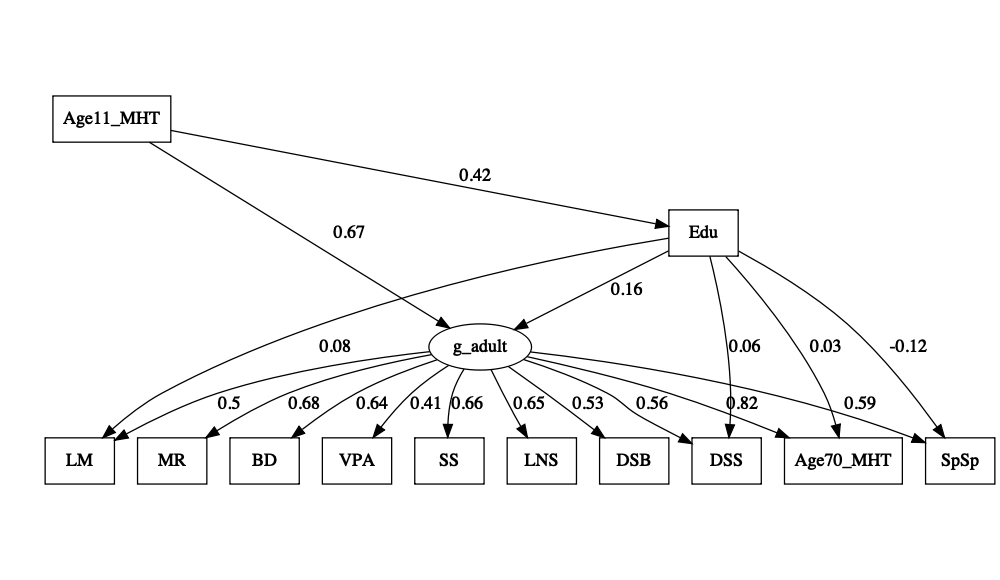
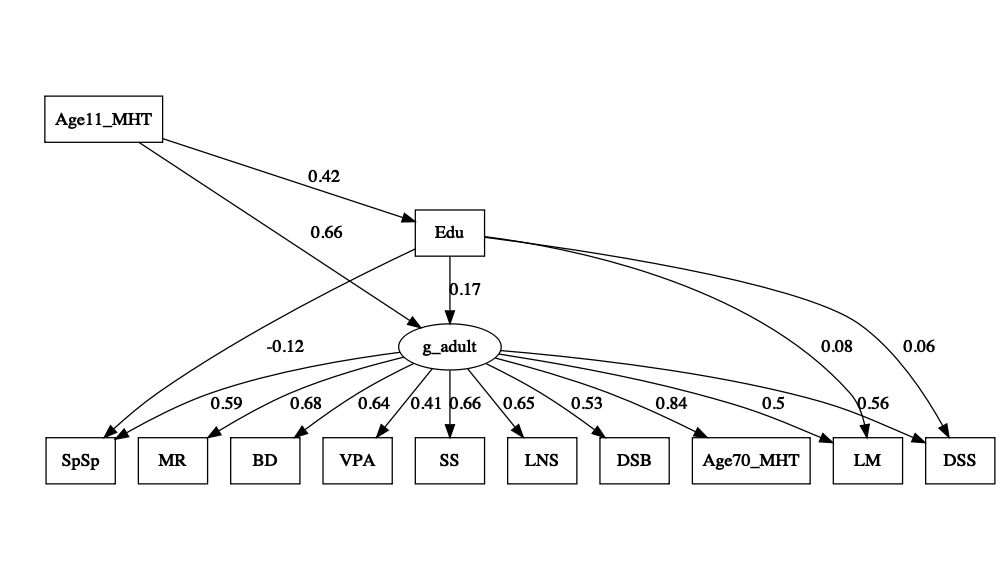
Add files via upload

diff --git a/iq/ritchie_reanal/ritchie_reanalysis.md b/iq/ritchie_reanal/ritchie_reanalysis.md
@@ -1,6 +1,6 @@
 Re-analysis of Ritchie, Bates, Deary et al.
 ================
-2024-07-15
+2024-07-16
 
 ## Load in the data
 
@@ -204,11 +204,11 @@ LM ~~ VPA
 DSS ~~ SS
 DSB ~~ LNS'
 
-EduGandS_new.fit <- cfa(new_model, sample.cov = cor_mat , sample.nobs = ntotal , std.lv = T)
+EduGandS_new.fit <- cfa(EduGandS_new.model, sample.cov = cor_mat , sample.nobs = ntotal , std.lv = T)
 cat ("dAIC Only S vs. G and S (updated)" , fitMeasures(EduOnlyS.fit,"aic") - fitMeasures(EduGandS_new.fit,"aic") , '\n' )
 ```
 
-    ## dAIC Only S vs. G and S (updated) 3.484087
+    ## dAIC Only S vs. G and S (updated) 4.084667
 
 The updated model fits better than the model only on S. Let’s visualize
 it:
@@ -222,45 +222,44 @@ There’s a significant positive path from Edu to g, and a negative path
 from Edu to SpSp. Let’s look at the stanardized coefficients:
 
 ``` r
-standardizedSolution(EduGandS.fit)
+standardizedSolution(EduGandS_new.fit)
 ```
 
     ##          lhs op       rhs est.std    se      z pvalue ci.lower ci.upper
-    ## 1    g_adult =~ Age70_MHT   0.825 0.019 44.304  0.000    0.788    0.861
-    ## 2    g_adult =~        LM   0.497 0.028 17.594  0.000    0.441    0.552
-    ## 3    g_adult =~       DSS   0.557 0.026 21.243  0.000    0.506    0.609
-    ## 4    g_adult =~        MR   0.679 0.019 36.216  0.000    0.642    0.715
-    ## 5    g_adult =~        BD   0.640 0.020 31.479  0.000    0.600    0.679
-    ## 6    g_adult =~       VPA   0.415 0.028 15.066  0.000    0.361    0.469
-    ## 7    g_adult =~        SS   0.661 0.019 34.178  0.000    0.623    0.699
-    ## 8    g_adult =~       LNS   0.649 0.020 32.717  0.000    0.610    0.687
-    ## 9    g_adult =~       DSB   0.530 0.024 21.902  0.000    0.482    0.577
-    ## 10   g_adult =~      SpSp   0.590 0.029 20.113  0.000    0.532    0.647
-    ## 11   g_adult  ~ Age11_MHT   0.667 0.021 31.980  0.000    0.626    0.708
+    ## 1    g_adult =~ Age70_MHT   0.841 0.012 67.666  0.000    0.817    0.866
+    ## 2    g_adult =~        LM   0.499 0.028 17.610  0.000    0.444    0.555
+    ## 3    g_adult =~       DSS   0.558 0.026 21.149  0.000    0.506    0.610
+    ## 4    g_adult =~        MR   0.678 0.019 36.287  0.000    0.641    0.714
+    ## 5    g_adult =~        BD   0.639 0.020 31.520  0.000    0.599    0.678
+    ## 6    g_adult =~       VPA   0.415 0.027 15.094  0.000    0.361    0.469
+    ## 7    g_adult =~        SS   0.659 0.019 34.087  0.000    0.621    0.697
+    ## 8    g_adult =~       LNS   0.646 0.020 32.583  0.000    0.607    0.685
+    ## 9    g_adult =~       DSB   0.528 0.024 21.819  0.000    0.480    0.575
+    ## 10   g_adult =~      SpSp   0.592 0.030 19.977  0.000    0.534    0.650
+    ## 11   g_adult  ~ Age11_MHT   0.662 0.020 32.481  0.000    0.622    0.702
     ## 12       Edu  ~ Age11_MHT   0.420 0.025 17.123  0.000    0.372    0.468
-    ## 13 Age70_MHT ~~      SpSp  -0.195 0.042 -4.610  0.000   -0.278   -0.112
-    ## 14        MR ~~        BD   0.241 0.032  7.430  0.000    0.177    0.304
-    ## 15        LM ~~       VPA   0.334 0.028 11.725  0.000    0.278    0.390
-    ## 16       DSS ~~        SS   0.386 0.028 13.573  0.000    0.330    0.441
-    ## 17       LNS ~~       DSB   0.304 0.030 10.095  0.000    0.245    0.363
-    ## 18   g_adult  ~       Edu   0.155 0.030  5.216  0.000    0.097    0.214
-    ## 19      SpSp  ~       Edu  -0.117 0.032 -3.647  0.000   -0.180   -0.054
-    ## 20        LM  ~       Edu   0.082 0.029  2.835  0.005    0.025    0.139
-    ## 21       DSS  ~       Edu   0.065 0.027  2.405  0.016    0.012    0.117
-    ## 22 Age70_MHT  ~       Edu   0.031 0.026  1.201  0.230   -0.020    0.082
-    ## 23 Age70_MHT ~~ Age70_MHT   0.297 0.021 13.999  0.000    0.255    0.338
-    ## 24        LM ~~        LM   0.711 0.025 28.125  0.000    0.662    0.761
-    ## 25       DSS ~~       DSS   0.654 0.026 25.314  0.000    0.603    0.705
-    ## 26        MR ~~        MR   0.539 0.025 21.208  0.000    0.490    0.589
-    ## 27        BD ~~        BD   0.591 0.026 22.736  0.000    0.540    0.642
-    ## 28       VPA ~~       VPA   0.828 0.023 36.229  0.000    0.783    0.873
-    ## 29        SS ~~        SS   0.563 0.026 22.034  0.000    0.513    0.613
-    ## 30       LNS ~~       LNS   0.579 0.026 22.538  0.000    0.529    0.630
-    ## 31       DSB ~~       DSB   0.719 0.026 28.049  0.000    0.669    0.769
-    ## 32      SpSp ~~      SpSp   0.698 0.028 25.036  0.000    0.644    0.753
-    ## 33       Edu ~~       Edu   0.824 0.021 39.973  0.000    0.783    0.864
-    ## 34   g_adult ~~   g_adult   0.444 0.023 19.699  0.000    0.400    0.489
-    ## 35 Age11_MHT ~~ Age11_MHT   1.000 0.000     NA     NA    1.000    1.000
+    ## 13   g_adult  ~       Edu   0.170 0.027  6.338  0.000    0.118    0.223
+    ## 14       DSS  ~       Edu   0.060 0.027  2.241  0.025    0.008    0.113
+    ## 15        LM  ~       Edu   0.076 0.029  2.642  0.008    0.020    0.132
+    ## 16      SpSp  ~       Edu  -0.121 0.032 -3.776  0.000   -0.184   -0.058
+    ## 17 Age70_MHT ~~      SpSp  -0.200 0.043 -4.694  0.000   -0.284   -0.117
+    ## 18        MR ~~        BD   0.242 0.032  7.514  0.000    0.179    0.305
+    ## 19        LM ~~       VPA   0.334 0.028 11.742  0.000    0.279    0.390
+    ## 20       DSS ~~        SS   0.387 0.028 13.674  0.000    0.332    0.442
+    ## 21       LNS ~~       DSB   0.307 0.030 10.231  0.000    0.248    0.366
+    ## 22 Age70_MHT ~~ Age70_MHT   0.292 0.021 13.950  0.000    0.251    0.333
+    ## 23        LM ~~        LM   0.711 0.025 28.142  0.000    0.662    0.761
+    ## 24       DSS ~~       DSS   0.655 0.026 25.389  0.000    0.604    0.705
+    ## 25        MR ~~        MR   0.541 0.025 21.346  0.000    0.491    0.590
+    ## 26        BD ~~        BD   0.592 0.026 22.870  0.000    0.541    0.643
+    ## 27       VPA ~~       VPA   0.828 0.023 36.298  0.000    0.783    0.873
+    ## 28        SS ~~        SS   0.566 0.025 22.198  0.000    0.516    0.616
+    ## 29       LNS ~~       LNS   0.582 0.026 22.719  0.000    0.532    0.633
+    ## 30       DSB ~~       DSB   0.721 0.026 28.243  0.000    0.671    0.771
+    ## 31      SpSp ~~      SpSp   0.699 0.028 25.049  0.000    0.645    0.754
+    ## 32       Edu ~~       Edu   0.824 0.021 39.973  0.000    0.783    0.864
+    ## 33   g_adult ~~   g_adult   0.438 0.022 20.003  0.000    0.395    0.480
+    ## 34 Age11_MHT ~~ Age11_MHT   1.000 0.000     NA     NA    1.000    1.000
 
 ## Sensitivity analysis: Remove SpSp entirely from the analysis
 
